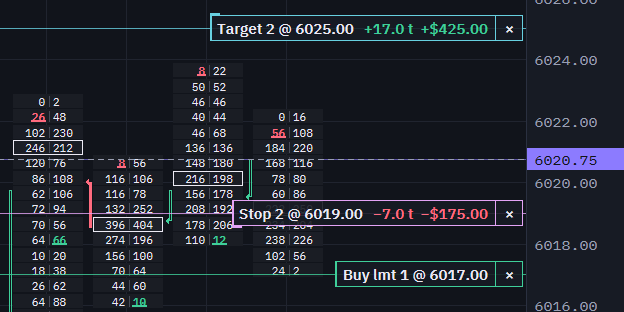
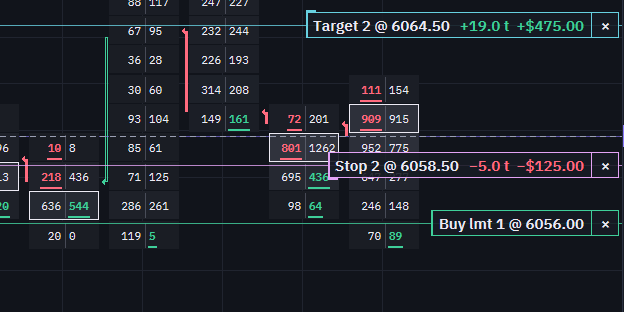
Screenshots from natural synthetic sessions, narrower DOM
New synthetic generator (lines synth_natural example, seed 7): volatility
clustering, trend legs, news bursts, U-shaped activity, heavy-tailed sizes.
Shot at 15:15 ET on the second session; the DOM column is a quarter of
the window.

diff --git a/README.md b/README.md
@@ -43,4 +43,4 @@ With each `lines` release:
 
 - **Roadmap:** refresh the block marked `<!-- ROADMAP -->` in `index.html` (Shipped / In progress / Next) to match the release notes.
 - **Version:** nothing to change. The page script fills in the newest release's version and download links from the GitHub API; without JS the page says "Download" / "Latest release" and links to the releases page (`/releases/latest`, which GitHub redirects to the list while every release is a pre-release).
-- **Screenshots:** if the UI changed noticeably, replace the PNGs in `assets/` and regenerate the `.webp` copies and `og.png`. Synthetic data only (decision 0010 in `lines`): the recipe is in `lines` `docs/architecture.md` ("README images"); this site's `hero-mobile` is a 624x312 crop of the hero rendered with `--ui-zoom 125`, and `og.png` is the hero scaled to 1200 wide and cropped to 630 tall.
+- **Screenshots:** if the UI changed noticeably, replace the PNGs in `assets/` and regenerate the `.webp` copies and `og.png`. Synthetic data only (decision 0010 in `lines`): sessions from `lines`' `synth_natural` example (`--seed 7 --depth`), shot with `--at 2026-11-05T20:15:00Z`, the README workspaces in `lines` `docs/img/*.json` with the outer split ratio at 0.75 (a narrower DOM) and the paper script `buy 2 @ 6060.50 bracket 8/16; ack; buy 1 @ 6056.00; ack` (recipe: `lines` `docs/architecture.md`, "README images"). `hero-mobile` is a 624x312 crop of the hero rendered with `--ui-zoom 125`; `og.png` is the hero scaled to 1200 wide and cropped to 630 tall. PNGs are quantized to 256 colors; WebPs are lossless.
